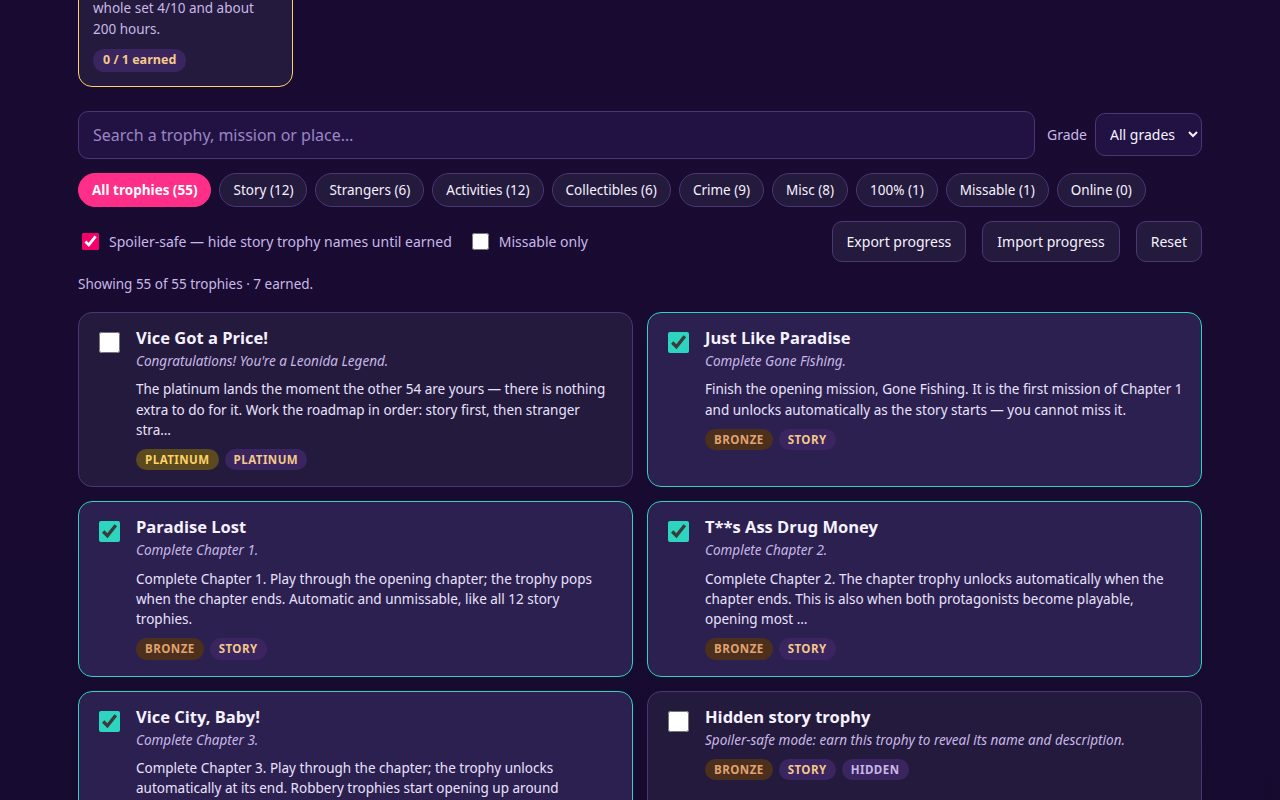
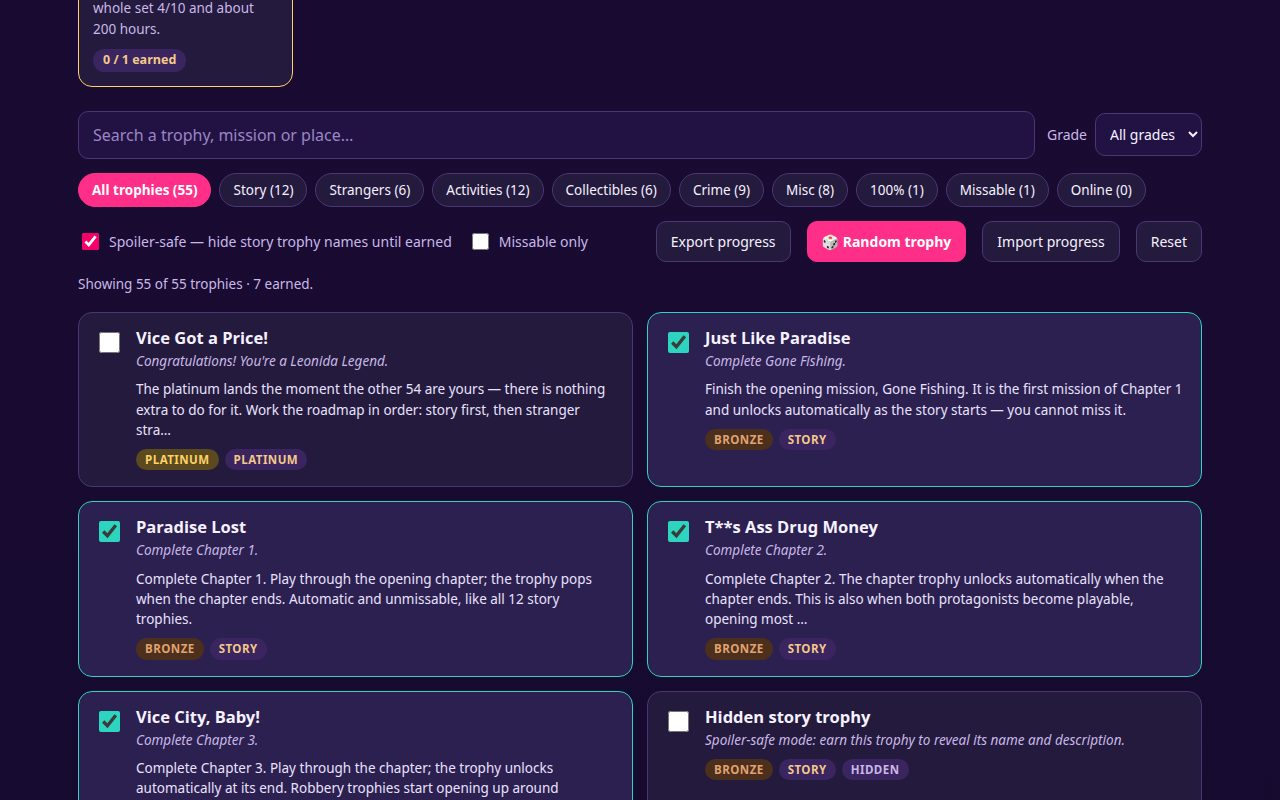
gta6-trophy-guide-01 fix: rewrite main.ts with full audit, add Random trophy + per-kind progress
- main.ts rewritten in full: audits trophies.json (55 trophies, ids 1-55,
  per-kind/per-grade/per-stage counts, >=15-word guides, >=1 source each,
  exactly 1 missable) and screenshots (exactly 4 JPEGs <=256 KiB) before
  assembling out/ with app/ + screenshots/ + dossier.json
- Random trophy button: opens a random unearned trophy's detail
  (falls back to the whole list once all 55 are earned)
- Per-kind progress line under the dashboard (Story x/12, Strangers x/6, ...)

Changed region(s): [[0.5, 0.25, 0.7812, 0.3438]]

diff --git a/main.ts b/main.ts
@@ -1,55 +1,166 @@
-// Vice City Trophy Guide — gta6-trophy-guide-01 entry (Node 22, standard library only).
-// The guide itself is this directory's app/ folder: plain static files a browser opens at
-// app/index.html (ES module, CSS, no build step, offline — nothing loads over the network),
-// with the trophy list and every guide in app/data/trophies.json. The program hands it in:
-// it copies app/ and screenshots/ from beside this file to /output and writes
-// /output/dossier.json, the summary the judge reads (your screenshots, the first load's
-// files and bytes, and your source), with the vendored make.fun library. Leave
-// vendor/makefun-frontend.ts as it is: the scorer requires dossier.json to be byte for byte
-// what its own copy writes.
+// gta6-trophy-guide-01 — build entrypoint.
 //
-// Before copying, this entrypoint checks the guide data itself: trophies.json must parse,
-// hold exactly the 55 official trophies, and every one must carry a non-blank guide of its
-// own — a guide with a missing entry is a guide that should not be handed in. If the check
-// fails the program exits non-zero and copies nothing.
+// What this program ships: the static guide in app/ (the tracker page plus the
+// 55-trophy dataset) and the four screenshots in screenshots/. It assembles them
+// into the output directory the grader reads — /output by default, or whatever
+// MAKEFUN_OUTPUT_DIR points at — and writes dossier.json there with the vendored
+// make.fun library, which is the summary the scorer reads. vendor/ is left
+// alone: the scorer only accepts a dossier.json byte-identical to what its own
+// copy of that library produces.
 //
-// Serve it locally with `node serve.ts`, then open http://localhost:8080.
-// Outside the grader's container, MAKEFUN_OUTPUT_DIR stands in for /output:
-//   mkdir -p out && MAKEFUN_OUTPUT_DIR=out node main.ts
+// Before it copies anything it audits the dataset, because a guide that ships
+// with a broken trophy list is worse than no guide at all. The audit checks
+// the shape of trophies.json (55 trophies, ids 1-55 with no gaps or duplicates),
+// the content of every trophy (a real name and description, a guide of at
+// least 15 words, at least one cited source with a usable URL), the overall
+// composition (the per-kind and per-grade counts the guide advertises, the
+// per-stage counts the roadmap is built on, exactly one missable trophy), and
+// the screenshot set (exactly four JPEGs, each under the 256 KiB cap). Any
+// failure stops the build before a single file is copied.
+//
+// Run it locally with:
+//   MAKEFUN_OUTPUT_DIR=out node main.ts
+// and serve the result with `node serve.ts` (http://localhost:8080).
 
-import { cpSync, existsSync, mkdirSync, readFileSync, writeFileSync } from 'node:fs';
+import { cpSync, existsSync, mkdirSync, readdirSync, readFileSync, rmSync, statSync, writeFileSync } from 'node:fs';
 import { join } from 'node:path';
 import { fileURLToPath } from 'node:url';
 import { buildDossier } from './vendor/makefun-frontend.ts';
 
-const here = fileURLToPath(new URL('.', import.meta.url));
-const out = process.env.MAKEFUN_OUTPUT_DIR ?? '/output';
+const repoRoot = fileURLToPath(new URL('.', import.meta.url));
+const outputDir = process.env.MAKEFUN_OUTPUT_DIR ?? '/output';
 
-// Validate the guide data before anything is copied: exactly 55 trophies, every one
-// with a non-blank guide and at least one cited source.
-const trophiesPath = join(here, 'app', 'data', 'trophies.json');
-const doc = JSON.parse(readFileSync(trophiesPath, 'utf8'));
-if (!Array.isArray(doc.trophies) || doc.trophies.length !== 55) {
-  throw new Error(`trophies.json must hold exactly 55 trophies, found ${doc.trophies?.length ?? 0}`);
+const EXPECTED_TOTAL = 55;
+const MIN_GUIDE_WORDS = 15;
+const EXPECTED_SCREENSHOTS = 4;
+const MAX_SCREENSHOT_BYTES = 262144;
+
+// The composition the guide advertises on its dashboard and roadmap. If the
+// data ever drifts from these numbers the page would be lying, so the build
+// refuses to ship it.
+const EXPECTED_KINDS = { platinum: 1, story: 12, side: 6, activities: 12, collectibles: 6, crime: 9, misc: 8, completion: 1 };
+const EXPECTED_GRADES = { platinum: 1, gold: 2, silver: 6, bronze: 46 };
+const EXPECTED_STAGES = { 1: 12, 2: 8, 3: 17, 4: 9, 5: 8, 6: 1 };
+
+function fail(message) {
+  throw new Error('trophy guide audit failed: ' + message);
 }
-for (const t of doc.trophies) {
-  if (typeof t.guide !== 'string' || !t.guide.trim()) {
-    throw new Error(`trophy ${t.id} (${t.name}) has no guide text`);
+
+function countWords(text) {
+  return text.trim().split(/\s+/).filter(Boolean).length;
+}
+
+function tally(items, keyOf) {
+  const counts = {};
+  for (const item of items) {
+    const key = keyOf(item);
+    counts[key] = (counts[key] ?? 0) + 1;
   }
-  if (!Array.isArray(t.sources) || t.sources.length === 0) {
-    throw new Error(`trophy ${t.id} (${t.name}) cites no source`);
+  return counts;
+}
+
+function expectCounts(label, actual, expected) {
+  for (const [key, want] of Object.entries(expected)) {
+    const got = actual[key] ?? 0;
+    if (got !== want) fail(`${label} "${key}" should be ${want}, found ${got}`);
+  }
+  for (const key of Object.keys(actual)) {
+    if (!(key in expected)) fail(`${label} has unexpected value "${key}"`);
   }
 }
 
-mkdirSync(out, { recursive: true });
-cpSync(join(here, 'app'), join(out, 'app'), { recursive: true });
-mkdirSync(join(out, 'screenshots'), { recursive: true });
-if (existsSync(join(here, 'screenshots'))) cpSync(join(here, 'screenshots'), join(out, 'screenshots'), { recursive: true });
+function auditTrophies(trophies) {
+  if (!Array.isArray(trophies)) fail('trophies.json must hold a "trophies" array');
+  if (trophies.length !== EXPECTED_TOTAL) {
+    fail(`expected ${EXPECTED_TOTAL} trophies, found ${trophies.length}`);
+  }
 
-// The scorer's own caps (reference/gate.json): only text_max_bytes shapes the bytes; the others refuse an entry the
-// scorer would refuse (more than 4 screenshots or one over 256 KiB; more than 993 files and directories in app/ or
-// 48 MiB of app files: app/ counts beside /output's own 1000-entry cap, its screenshots/ and dossier.json).
+  // Ids must be exactly 1..55, each once — no gaps, no duplicates.
+  const seenIds = new Set();
+  for (const t of trophies) {
+    if (!Number.isInteger(t.id) || t.id < 1 || t.id > EXPECTED_TOTAL) {
+      fail(`trophy has an out-of-range id: ${JSON.stringify(t.id)}`);
+    }
+    if (seenIds.has(t.id)) fail(`duplicate trophy id ${t.id}`);
+    seenIds.add(t.id);
+  }
+  if (seenIds.size !== EXPECTED_TOTAL) fail(`trophy ids do not cover 1-${EXPECTED_TOTAL}`);
+
+  for (const t of trophies) {
+    const label = `trophy ${t.id} (${t.name ?? 'unnamed'})`;
+    if (typeof t.name !== 'string' || !t.name.trim()) fail(`${label} has no name`);
+    if (typeof t.description !== 'string' || !t.description.trim()) {
+      fail(`${label} has no official description`);
+    }
+    if (typeof t.guide !== 'string' || countWords(t.guide) < MIN_GUIDE_WORDS) {
+      fail(`${label} guide is under ${MIN_GUIDE_WORDS} words (${countWords(t.guide ?? '')} found)`);
+    }
+    if (!Array.isArray(t.sources) || t.sources.length === 0) {
+      fail(`${label} cites no source`);
+    }
+    for (const s of t.sources) {
+      if (typeof s?.name !== 'string' || !s.name.trim()) fail(`${label} has a source with no name`);
+      if (typeof s?.url !== 'string' || !/^https?:\/\//.test(s.url)) {
+        fail(`${label} has a source with no usable URL`);
+      }
+    }
+    if (!(t.grade in EXPECTED_GRADES)) fail(`${label} has unknown grade "${t.grade}"`);
+    if (!(t.kind in EXPECTED_KINDS)) fail(`${label} has unknown kind "${t.kind}"`);
+    if (!Number.isInteger(t.stage) || !(t.stage in EXPECTED_STAGES)) {
+      fail(`${label} has unknown roadmap stage "${t.stage}"`);
+    }
+    if (typeof t.missable !== 'boolean') fail(`${label} "missable" is not a boolean`);
+  }
+
+  expectCounts('kind', tally(trophies, (t) => t.kind), EXPECTED_KINDS);
+  expectCounts('grade', tally(trophies, (t) => t.grade), EXPECTED_GRADES);
+  expectCounts('roadmap stage', tally(trophies, (t) => t.stage), EXPECTED_STAGES);
+
+  const missable = trophies.filter((t) => t.missable);
+  if (missable.length !== 1) {
+    fail(`expected exactly 1 missable trophy, found ${missable.length}`);
+  }
+}
+
+function auditScreenshots(dir) {
+  if (!existsSync(dir)) fail('screenshots/ directory is missing');
+  const files = readdirSync(dir);
+  if (files.length !== EXPECTED_SCREENSHOTS) {
+    fail(`expected exactly ${EXPECTED_SCREENSHOTS} screenshots, found ${files.length}: ${files.join(', ')}`);
+  }
+  for (const name of files) {
+    const path = join(dir, name);
+    if (!name.toLowerCase().endsWith('.jpg')) fail(`screenshot "${name}" is not a JPEG`);
+    const size = statSync(path).size;
+    if (size === 0) fail(`screenshot "${name}" is empty`);
+    if (size > MAX_SCREENSHOT_BYTES) {
+      fail(`screenshot "${name}" is ${size} bytes, over the ${MAX_SCREENSHOT_BYTES} byte cap`);
+    }
+  }
+}
+
+// --- Audit first, copy nothing until it passes. ---
+
+const doc = JSON.parse(readFileSync(join(repoRoot, 'app', 'data', 'trophies.json'), 'utf8'));
+auditTrophies(doc.trophies);
+auditScreenshots(join(repoRoot, 'screenshots'));
+
+// --- Assemble a clean output directory. ---
+
+mkdirSync(outputDir, { recursive: true });
+rmSync(join(outputDir, 'app'), { recursive: true, force: true });
+rmSync(join(outputDir, 'screenshots'), { recursive: true, force: true });
+cpSync(join(repoRoot, 'app'), join(outputDir, 'app'), { recursive: true });
+cpSync(join(repoRoot, 'screenshots'), join(outputDir, 'screenshots'), { recursive: true });
+
+// The scorer's own caps (reference/gate.json): only text_max_bytes shapes the
+// bytes; the others refuse an entry the scorer would refuse (more than 4
+// screenshots or one over 256 KiB; more than 993 files and directories in app/
+// or 48 MiB of app files: app/ counts beside /output's own 1000-entry cap, its
+// screenshots/ and dossier.json).
 writeFileSync(
-  join(out, 'dossier.json'),
-  buildDossier(out, { text_max_bytes: 163840, screenshots: { max: 4, max_bytes: 262144 }, app_max_files: 993, app_max_bytes: 50331648 }),
+  join(outputDir, 'dossier.json'),
+  buildDossier(outputDir, { text_max_bytes: 163840, screenshots: { max: 4, max_bytes: 262144 }, app_max_files: 993, app_max_bytes: 50331648 }),
 );
+
+console.log(`built ${outputDir}: 55 trophies audited, 4 screenshots, dossier.json written`);

diff --git a/app/app.js b/app/app.js
@@ -79,6 +79,18 @@ function renderDashboard() {
     " · Gold " + byGrade("gold") + "/" + totalGrade("gold") +
     " · Silver " + byGrade("silver") + "/" + totalGrade("silver") +
     " · Bronze " + byGrade("bronze") + "/" + totalGrade("bronze");
+  renderKindProgress();
+}
+
+// One earned/total pair per trophy kind, so the player can see at a glance
+// which corner of the list still needs work (story done, crime lagging, …).
+function renderKindProgress() {
+  const kinds = ["story", "side", "activities", "collectibles", "crime", "misc", "completion", "platinum"];
+  $("kindLine").textContent = kinds.map((k) => {
+    const total = data.trophies.filter((t) => t.kind === k).length;
+    const done = data.trophies.filter((t) => t.kind === k && earned.has(t.id)).length;
+    return KIND_LABEL[k] + " " + done + "/" + total;
+  }).join(" · ");
 }
 
 function renderStages() {
@@ -155,6 +167,19 @@ function toggleEarned(id) {
   saveProgress();
   renderDashboard(); renderStages(); renderList();
   if (detailId === id) fillDetail(data.trophies.find((t) => t.id === id));
+}
+
+// Stuck on what to chase next? Pick a random trophy you have not earned yet
+// and open its guide. Once every trophy is earned the pool is the whole list,
+// so the button keeps working as a way to revisit one at random.
+function pickRandomTrophy() {
+  const remaining = data.trophies.filter((t) => !earned.has(t.id));
+  const pool = remaining.length > 0 ? remaining : data.trophies;
+  const pick = pool[Math.floor(Math.random() * pool.length)];
+  openDetail(pick.id);
+  $("resultLine").textContent = remaining.length > 0
+    ? "Random pick from your " + remaining.length + " unearned trophies: " + (hiddenBySpoiler(pick) ? "a hidden story trophy — earn it to reveal the name." : pick.name + ".")
+    : "All 55 trophies earned — here is a random one to revisit.";
 }
 
 function openDetail(id) {
@@ -234,6 +259,7 @@ function init() {
       renderList();
     });
     $("export").addEventListener("click", exportProgress);
+    $("random").addEventListener("click", pickRandomTrophy);
     $("import").addEventListener("change", (e) => { if (e.target.files[0]) importProgress(e.target.files[0]); e.target.value = ""; });
     $("reset").addEventListener("click", () => {
       if (!confirm("Clear all earned trophies? This cannot be undone — export first if you want a copy.")) return;

diff --git a/app/index.html b/app/index.html
@@ -19,6 +19,7 @@
         <p class="big-line"><strong id="earnedCount">0</strong> of <strong>55</strong> trophies earned · <strong id="earnedPct">0%</strong> to the platinum</p>
         <div class="bar"><div class="bar-fill" id="barFill"></div></div>
         <p class="grade-line" id="gradeLine">Platinum 0/1 · Gold 0/2 · Silver 0/6 · Bronze 0/46</p>
+        <p class="kind-line" id="kindLine"></p>
       </div>
     </div>
     <div class="facts">
@@ -61,6 +62,7 @@
     <label class="toggle"><input type="checkbox" id="missableOnly"> <span>Missable only</span></label>
     <span class="spacer"></span>
     <button id="export" type="button">Export progress</button>
+    <button id="random" type="button">🎲 Random trophy</button>
     <label class="import-btn">Import progress <input id="import" type="file" accept="application/json"></label>
     <button id="reset" type="button">Reset</button>
   </div>

diff --git a/app/style.css b/app/style.css
@@ -49,6 +49,8 @@ button, input, select { font: inherit; }
 .bar { height: 12px; border-radius: 6px; background: #3a2560; overflow: hidden; }
 .bar-fill { height: 100%; width: 0%; border-radius: 6px; background: linear-gradient(90deg, var(--pink), var(--sand)); transition: width 0.3s; }
 .grade-line { color: var(--muted); margin: 10px 0 0; font-size: 14px; }
+.kind-line { color: var(--muted); margin: 6px 0 0; font-size: 13.5px; }
+#random { background: var(--pink); border-color: var(--pink); color: #fff; font-weight: 700; }
 .facts { display: grid; grid-template-columns: repeat(4, 1fr); gap: 12px; margin-top: 18px; }
 .facts div { background: var(--card); border: 1px solid var(--line); border-radius: 10px; padding: 10px 12px; }
 .facts strong { display: block; font-size: 20px; color: var(--sand); }

diff --git a/README.md b/README.md
@@ -4,7 +4,7 @@
 [![rank](https://make.fun/badge/gta6-trophy-guide-01/Shintya7/gta6-trophy-guide-01/rank.svg)](https://make.fun/bounty/gta6-trophy-guide-01/leaderboard?utm_source=github&utm_medium=readme&utm_campaign=gta6-trophy-guide-01)
 [![reward](https://make.fun/badge/gta6-trophy-guide-01/Shintya7/gta6-trophy-guide-01/reward.svg)](https://make.fun/bounty/gta6-trophy-guide-01?utm_source=github&utm_medium=readme&utm_campaign=gta6-trophy-guide-01)
 
-Vice City Trophy Guide — the best offline guide and tracker for GTA VI's 55 PS5 trophies (1 platinum, 2 gold, 6 silver, 46 bronze). Every trophy shows its official name, description and grade exactly as PlayStation publishes them, plus a guide written for this entry in our own words with its sources cited beside it. A six-stage platinum roadmap (story → strangers → activities → world & money → clean-up → platinum), a missable flag on the one trophy PowerPyx says can be missed (Positive Mental Attitude — the Chapter 1 balcony meditation), and a tracker with localStorage progress, export/import, filters by kind, grade and missable, search, and a spoiler-safe mode that hides story trophy names until earned. Static files, zero network requests at runtime.
+Vice City Trophy Guide — the best offline guide and tracker for GTA VI's 55 PS5 trophies (1 platinum, 2 gold, 6 silver, 46 bronze). Every trophy shows its official name, description and grade exactly as PlayStation publishes them, plus a guide written for this entry in our own words with its sources cited beside it. A six-stage platinum roadmap (story → strangers → activities → world & money → clean-up → platinum), a missable flag on the one trophy PowerPyx says can be missed (Positive Mental Attitude — the Chapter 1 balcony meditation), and a tracker with localStorage progress, export/import, filters by kind, grade and missable, search, and a spoiler-safe mode that hides story trophy names until earned. Stuck on what to chase next? The **Random trophy** button opens the guide for a random trophy you have not earned yet, and the dashboard shows a per-kind progress line (Story 3/12 · Strangers 1/6 · …) so you can see which corner of the list still needs work. Static files, zero network requests at runtime.
 
 ## Run it
 
